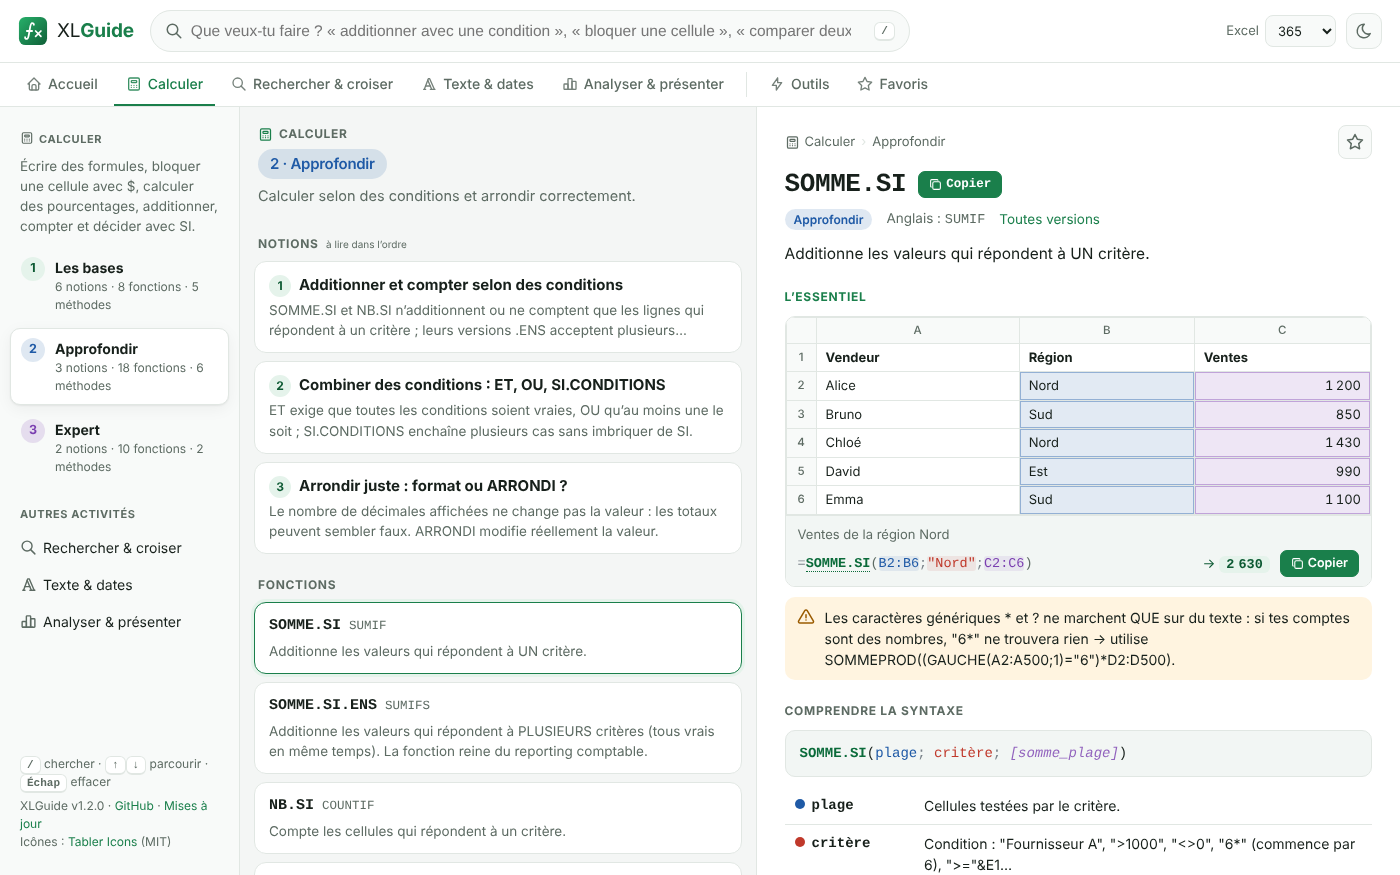
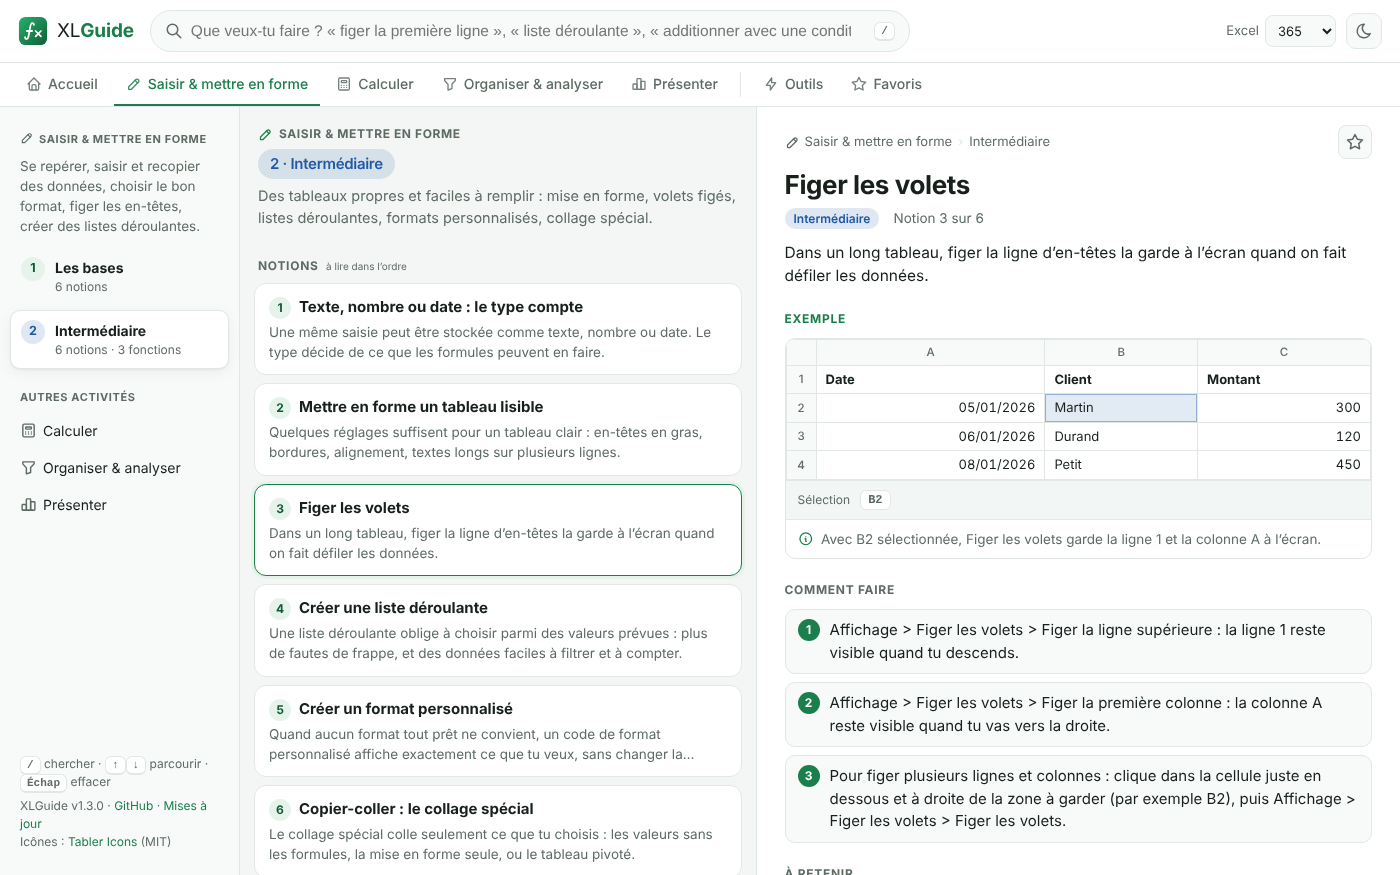
Site et documentation de la 1.3.0
- Site : 4 activités d'utilisation d'Excel en 2 niveaux, nouveaux chiffres,
  nouvelle capture, FAQ sans le volet administration système
- README : parcours, ajout d'une notion (étapes, sélection), règles du parcours
- CHANGELOG : 1.3.0

Claude-Session: https://claude.ai/code/session_01C6atnyL6EhQrEMcVV6yXbL

diff --git a/site/index.html b/site/index.html
@@ -3,10 +3,10 @@
 <head>
   <meta charset="utf-8">
   <meta name="viewport" content="width=device-width, initial-scale=1">
-  <title>XLGuide — Apprendre Excel en français, des bases aux formules avancées</title>
-  <meta name="description" content="Application gratuite pour Windows, Linux et le web : apprendre Excel en français avec 4 activités en 3 niveaux, des exemples vérifiés, une recherche en langage naturel, un traducteur de formules FR ⇄ EN et des cas pratiques (comptabilité, informatique).">
-  <meta property="og:title" content="XLGuide — Apprendre Excel en français">
-  <meta property="og:description" content="Calculer, rechercher, nettoyer, analyser : un parcours clair des bases aux formules avancées. Pour Windows, Linux et le web.">
+  <title>XLGuide — Apprendre à utiliser Excel, des bases à l’intermédiaire</title>
+  <meta name="description" content="Application gratuite pour Windows, Linux et le web : apprendre à utiliser Excel en français. Saisir et mettre en forme, calculer, organiser et analyser, présenter, en deux niveaux, avec des exemples vérifiés.">
+  <meta property="og:title" content="XLGuide — Apprendre à utiliser Excel">
+  <meta property="og:description" content="Saisir, calculer, organiser, présenter : un parcours clair, des bases à l’intermédiaire. Pour Windows, Linux et le web.">
   <meta property="og:image" content="https://joss943.github.io/xlguide/screenshot.png">
   <meta name="theme-color" content="#1a7f4b">
   <link rel="icon" href="app/icons/icon.svg" type="image/svg+xml">
@@ -26,8 +26,8 @@
   <section class="hero">
     <div class="hero-txt">
       <span class="pill">Gratuit · Open source · Hors-ligne</span>
-      <h1>Apprendre Excel en français,<br><em>des bases aux formules avancées.</em></h1>
-      <p>Quatre activités — calculer, rechercher, travailler le texte et les dates, analyser — chacune en trois niveaux. Des notions courtes, à lire dans l’ordre, avec un mini-tableau où chaque argument de la formule a la couleur des cellules qu’il vise. Et quand tu cherches une formule précise, décris simplement ce que tu veux faire.</p>
+      <h1>Apprendre à utiliser Excel,<br><em>des bases à l’intermédiaire.</em></h1>
+      <p>Quatre activités — saisir et mettre en forme, calculer, organiser et analyser, présenter — chacune en deux niveaux. Des notions courtes, à lire dans l’ordre, avec les étapes à suivre dans Excel et un mini-tableau d’exemple. Et quand tu cherches quelque chose de précis, décris-le simplement.</p>
       <div class="cta">
         <a class="btn btn-win" id="btnWin" href="https://github.com/Joss943/xlguide/releases/latest/download/XLGuide-Setup.exe">
           <i data-ic="brand-windows"></i>
@@ -45,27 +45,27 @@
       <p class="meta" id="relInfo">Dernière version : <a href="https://github.com/Joss943/xlguide/releases/latest">voir sur GitHub</a></p>
     </div>
     <div class="hero-img">
-      <img src="screenshot.png" alt="Capture d’écran de XLGuide : activité Calculer, niveau Approfondir, fiche SOMME.SI avec son mini-tableau" width="1400" height="875">
+      <img src="screenshot.png" alt="Capture d’écran de XLGuide : activité Saisir &amp; mettre en forme, notion Figer les volets avec ses étapes" width="1400" height="875">
     </div>
   </section>
 
   <section class="numbers">
-    <div><b id="nNt">40</b><span>notions, de « Écrire une formule » au TCD</span></div>
-    <div><b id="nFn">222</b><span>fonctions détaillées</span></div>
-    <div><b id="nEx">900</b><span>formules d’exemple</span></div>
-    <div><b id="nCa">128</b><span>cas pratiques (comptabilité, informatique)</span></div>
+    <div><b id="nAc">4</b><span>activités, chacune en deux niveaux</span></div>
+    <div><b id="nNt">49</b><span>notions, de « Se repérer dans Excel » au TCD</span></div>
+    <div><b id="nFn">69</b><span>fonctions, de la base à l’intermédiaire</span></div>
+    <div><b id="nEx">320</b><span>formules d’exemple</span></div>
   </section>
 
   <section id="fonctionnalites" class="features">
-    <h2>Un parcours clair, du premier « = » aux formules avancées</h2>
+    <h2>Un parcours clair, des bases à l’intermédiaire</h2>
     <div class="fgrid">
-      <article><i data-ic="calculator"></i><h3>1 · Calculer</h3><p>Écrire et recopier une formule, bloquer une cellule avec $, pourcentages, SOMME, SI, puis SOMME.SI.ENS, SOMMEPROD, LET…</p></article>
-      <article><i data-ic="search"></i><h3>2 · Rechercher &amp; croiser</h3><p>RECHERCHEV, RECHERCHEX, gérer #N/A, INDEX + EQUIV, comparer deux listes, repérer les doublons, barèmes.</p></article>
-      <article><i data-ic="typography"></i><h3>3 · Texte &amp; dates</h3><p>Découper, nettoyer, convertir le texte importé ; échéances, fins de mois, jours ouvrés, calculs d’heures.</p></article>
-      <article><i data-ic="chart-bar"></i><h3>4 · Analyser &amp; présenter</h3><p>Tableaux, tris et filtres, mise en forme conditionnelle, tableau croisé dynamique, FILTRE / TRIER / UNIQUE.</p></article>
-      <article><i data-ic="checklist"></i><h3>Trois niveaux</h3><p>Les bases → Approfondir → Expert. Chaque fiche commence par l’essentiel ; les détails sont repliés.</p></article>
-      <article><i data-ic="table"></i><h3>Des exemples qui se voient</h3><p>Un mini-tableau par notion : l’argument de la formule et les cellules qu’il vise ont la même couleur, comme dans Excel. Résultats vérifiés par LibreOffice.</p></article>
-      <article><i data-ic="bolt"></i><h3>Outils du quotidien</h3><p>Recherche en langage naturel, traducteur FR ⇄ EN, erreurs, raccourcis, index des fonctions, cas pratiques compta et informatique.</p></article>
+      <article><i data-ic="pencil"></i><h3>1 · Saisir &amp; mettre en forme</h3><p>Se repérer, saisir, recopier avec la poignée, formats de nombres et de dates, volets figés, listes déroulantes.</p></article>
+      <article><i data-ic="calculator"></i><h3>2 · Calculer</h3><p>Écrire et recopier une formule, bloquer une cellule avec $, SOMME, SI, puis SOMME.SI.ENS, RECHERCHEX, dates et texte.</p></article>
+      <article><i data-ic="filter"></i><h3>3 · Organiser &amp; analyser</h3><p>Tableaux, tri et filtres, doublons, mise en forme conditionnelle, tableau croisé dynamique.</p></article>
+      <article><i data-ic="chart-bar"></i><h3>4 · Présenter</h3><p>Créer et soigner un graphique, choisir le bon type, mettre en page et imprimer proprement.</p></article>
+      <article><i data-ic="checklist"></i><h3>Deux niveaux</h3><p>Les bases, puis l’intermédiaire. Chaque notion donne les étapes à suivre dans Excel et ce qu’il faut retenir.</p></article>
+      <article><i data-ic="table"></i><h3>Des exemples qui se voient</h3><p>Un mini-tableau par notion : la plage à sélectionner, ou les cellules visées par la formule, en couleur. Résultats vérifiés par LibreOffice.</p></article>
+      <article><i data-ic="bolt"></i><h3>Outils du quotidien</h3><p>Recherche en langage naturel, traducteur de formules FR ⇄ EN, erreurs Excel, raccourcis clavier, index des fonctions.</p></article>
       <article><i data-ic="shield-check"></i><h3>Hors-ligne et privé</h3><p>Aucune connexion, aucun compte, aucune donnée envoyée. Favoris, mode sombre, navigation au clavier (<kbd>/</kbd>, <kbd>↑</kbd><kbd>↓</kbd>, <kbd>Entrée</kbd>).</p></article>
     </div>
   </section>
@@ -126,14 +126,13 @@
 
   <section class="faq">
     <h2>Questions fréquentes</h2>
-    <details><summary>Je débute : par où commencer ?</summary><p>Ouvre l’activité <b>Calculer › Les bases</b> et lis les notions dans l’ordre (1, 2, 3…) : chacune tient en un écran, avec un mini-tableau à reproduire dans Excel. Passe ensuite aux autres activités ou au niveau Approfondir.</p></details>
+    <details><summary>Je débute : par où commencer ?</summary><p>Ouvre <b>Saisir &amp; mettre en forme › Les bases</b> et lis les notions dans l’ordre (1, 2, 3…), puis continue avec <b>Calculer › Les bases</b>. Chaque notion tient en un écran, avec les étapes à reproduire dans Excel.</p></details>
     <details><summary>C’est vraiment gratuit ?</summary><p>Oui, et open source (licence MIT). Le code est sur <a href="https://github.com/Joss943/xlguide">GitHub</a>.</p></details>
     <details><summary>Excel ne tourne pas sous Linux, à quoi ça sert ?</summary><p>XLGuide sert à trouver et comprendre les formules : tu les utilises ensuite dans Excel (Windows, Mac ou Excel sur le web, qui fonctionne très bien depuis Linux). La grande majorité des formules marchent aussi dans LibreOffice Calc en français.</p></details>
     <details><summary>Mes données sont-elles envoyées quelque part ?</summary><p>Non. L’application fonctionne entièrement en local, sans compte ni connexion. Les favoris sont stockés sur ton ordinateur.</p></details>
     <details><summary>Comment mettre à jour ?</summary><p>Télécharge simplement la nouvelle version et installe-la par-dessus l’ancienne (ou relance la commande d’installation Linux). Le menu <b>Aide → Vérifier les mises à jour</b> de l’application ouvre la page des versions.</p></details>
-    <details><summary>Les résultats des exemples sont-ils fiables ?</summary><p>Chaque résultat affiché (exemples et mini-tableaux) est recalculé automatiquement par un tableur indépendant (LibreOffice Calc) à chaque modification du code : plus de 400 résultats sont ainsi contrôlés.</p></details>
-    <details><summary>Je suis admin système/réseau, qu’est-ce qu’il y a pour moi ?</summary><p>Dans <b>Outils › Cas pratiques : informatique</b> : calculateur de sous-réseau en formules, conversions IP ⇄ nombre, fonctions personnalisées IPNUM / IPDANSRESEAU, adresses MAC, comptes AD (dates, userAccountControl, DN), inventaire et licences, logs et syslog, SLA, stockage, et surtout la comparaison de bases utilisateurs et matériel.</p></details>
-    <details><summary>Il manque une fonction ou une recette ?</summary><p>Ouvre une <a href="https://github.com/Joss943/xlguide/issues/new">issue sur GitHub</a> : la base est un simple fichier facile à enrichir.</p></details>
+    <details><summary>Les résultats des exemples sont-ils fiables ?</summary><p>Chaque résultat affiché (exemples et mini-tableaux) est recalculé automatiquement par un tableur indépendant (LibreOffice Calc) à chaque modification du code : plus de 250 résultats sont ainsi contrôlés.</p></details>
+    <details><summary>Il manque une notion ou une fonction ?</summary><p>Ouvre une <a href="https://github.com/Joss943/xlguide/issues/new">issue sur GitHub</a> : le contenu tient dans de simples fichiers faciles à enrichir.</p></details>
   </section>
 
   <footer>

diff --git a/scripts/build-site.js b/scripts/build-site.js
@@ -15,11 +15,11 @@ const nEx = XL.functions.reduce((n, f) => n + f.ex.length, 0) + XL.recipes.reduc
   XL.notions.reduce((n, x) => n + x.examples.length + sampleFormulas(x.sample), 0) +
   Object.keys(XL.samples).reduce((n, k) => n + sampleFormulas(XL.samples[k]), 0);
 let html = fs.readFileSync(path.join(out, 'index.html'), 'utf8');
-html = html.replace(/(<b id="nNt">)[^<]*/, '$1' + XL.notions.length)
+html = html.replace(/(<b id="nAc">)[^<]*/, '$1' + XL.activities.length)
+  .replace(/(<b id="nNt">)[^<]*/, '$1' + XL.notions.length)
   .replace(/(<b id="nFn">)[^<]*/, '$1' + XL.functions.length)
   .replace(/(<b id="nEx">)[^<]*/, '$1' + nEx)
-  .replace(/(<b id="nCa">)[^<]*/, '$1' + XL.recipes.length)
   // Icônes Tabler intégrées directement dans la page (pas d'attente du JavaScript)
   .replace(/<i data-ic="([a-z0-9-]+)"><\/i>/g, (m, n) => { const svg = XL.icon(n); if (!svg) throw new Error('Icône inconnue : ' + n); return svg; });
 fs.writeFileSync(path.join(out, 'index.html'), html);
-console.log('Site généré dans _site/ (' + XL.notions.length + ' notions, ' + XL.functions.length + ' fonctions, ' + XL.recipes.length + ' cas pratiques, ' + nEx + ' formules)');
+console.log('Site généré dans _site/ (' + XL.notions.length + ' notions, ' + XL.functions.length + ' fonctions, ' + XL.recipes.length + ' méthodes, ' + nEx + ' formules)');

diff --git a/CHANGELOG.md b/CHANGELOG.md
@@ -1,5 +1,28 @@
 # Journal des modifications
 
+## 1.3.0 — Centré sur l’utilisation d’Excel
+
+### Nouveau
+- **4 activités d’utilisation d’Excel** : Saisir & mettre en forme · Calculer · Organiser & analyser · Présenter, chacune en **2 niveaux** : Les bases → Intermédiaire.
+- **19 nouvelles notions sur le logiciel lui-même** : se repérer, saisir, sélectionner, poignée de recopie, formats, figer les volets, listes déroulantes, formats personnalisés, collage spécial, rechercher-remplacer, graphiques (création, choix, combiné, sparklines), mise en page et impression.
+- Rubrique **« Comment faire »** dans les notions : les étapes à suivre dans Excel, numérotées.
+- Mini-tableaux avec **plage à sélectionner** en couleur, pour les manipulations sans formule.
+- Dans un niveau, les fonctions sont **regroupées par thème** (conditions, recherche, dates, texte…).
+
+### Retiré
+- Le volet **administration système et réseau** (55 cas : IP, Active Directory, comparaison de bases) et son générateur.
+- Les cas pratiques **comptables spécialisés** (amortissements, FEC, rapprochement bancaire…) ; les méthodes générales (TVA, pourcentages, dates, heures, texte) restent dans les activités.
+- Les fonctions au-delà du niveau intermédiaire (finance, statistiques avancées, ingénierie, tableaux dynamiques 2024…) : 69 fonctions gardées sur 222. Le traducteur FR ⇄ EN reconnaît toujours tous les noms.
+- Le niveau Expert et la page Cas pratiques.
+
+### Compatibilité
+- Les liens de la 1.2.0 (#/a/rechercher/…, #/a/analyser/…, niveaux Approfondir et Expert) mènent à la nouvelle activité correspondante.
+- Les favoris vers un contenu retiré sont ignorés sans erreur ; les autres restent valables.
+
+### Vérifications
+- `npm test` vérifie que chaque fonction et chaque méthode a sa place dans le parcours et qu’aucun exemple n’utilise une fonction sans fiche.
+- 269 résultats recalculés par LibreOffice Calc, 0 écart.
+
 ## 1.2.0 — Parcours d’apprentissage
 
 L’application est réorganisée autour de l’usage d’Excel ; les contenus métier passent dans Outils.
